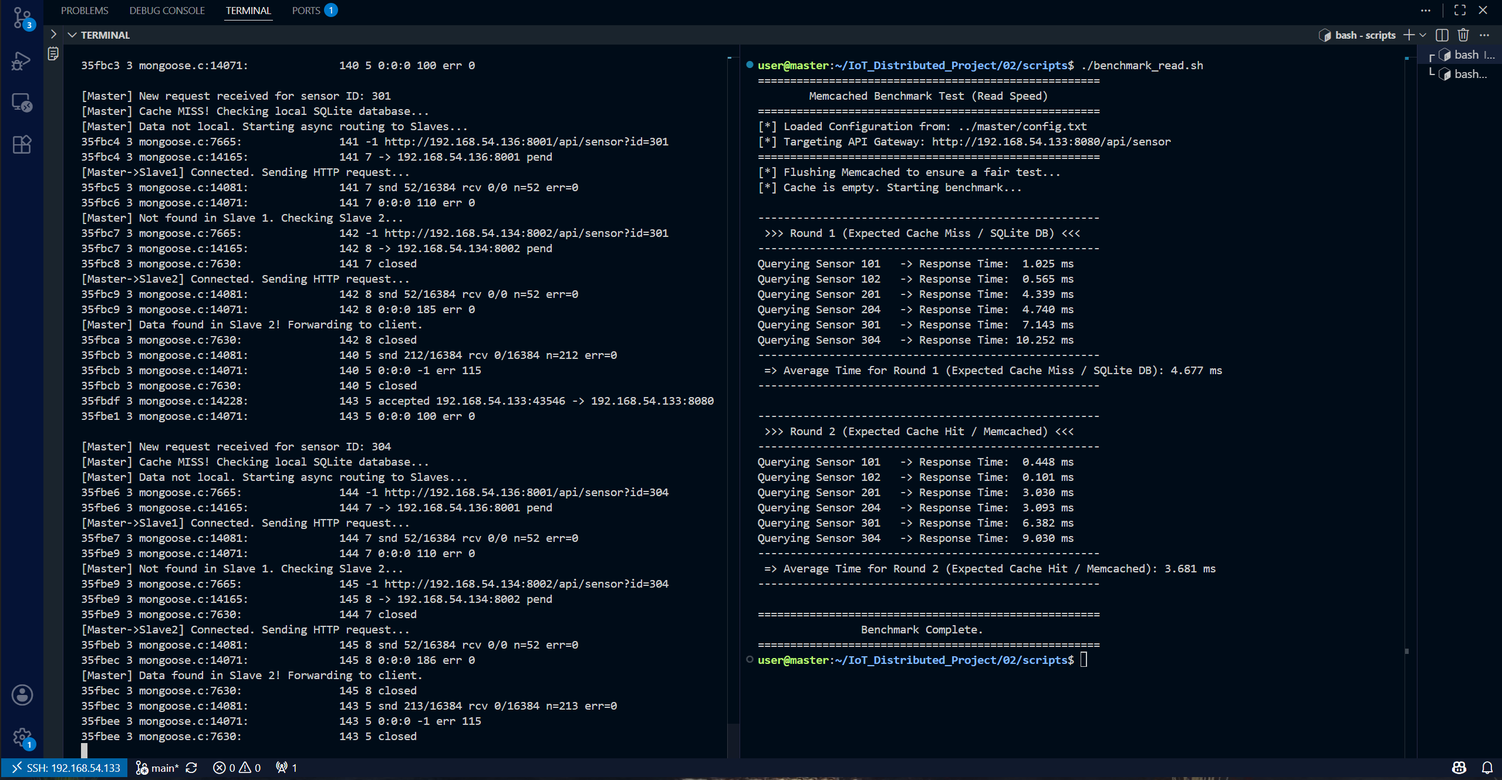
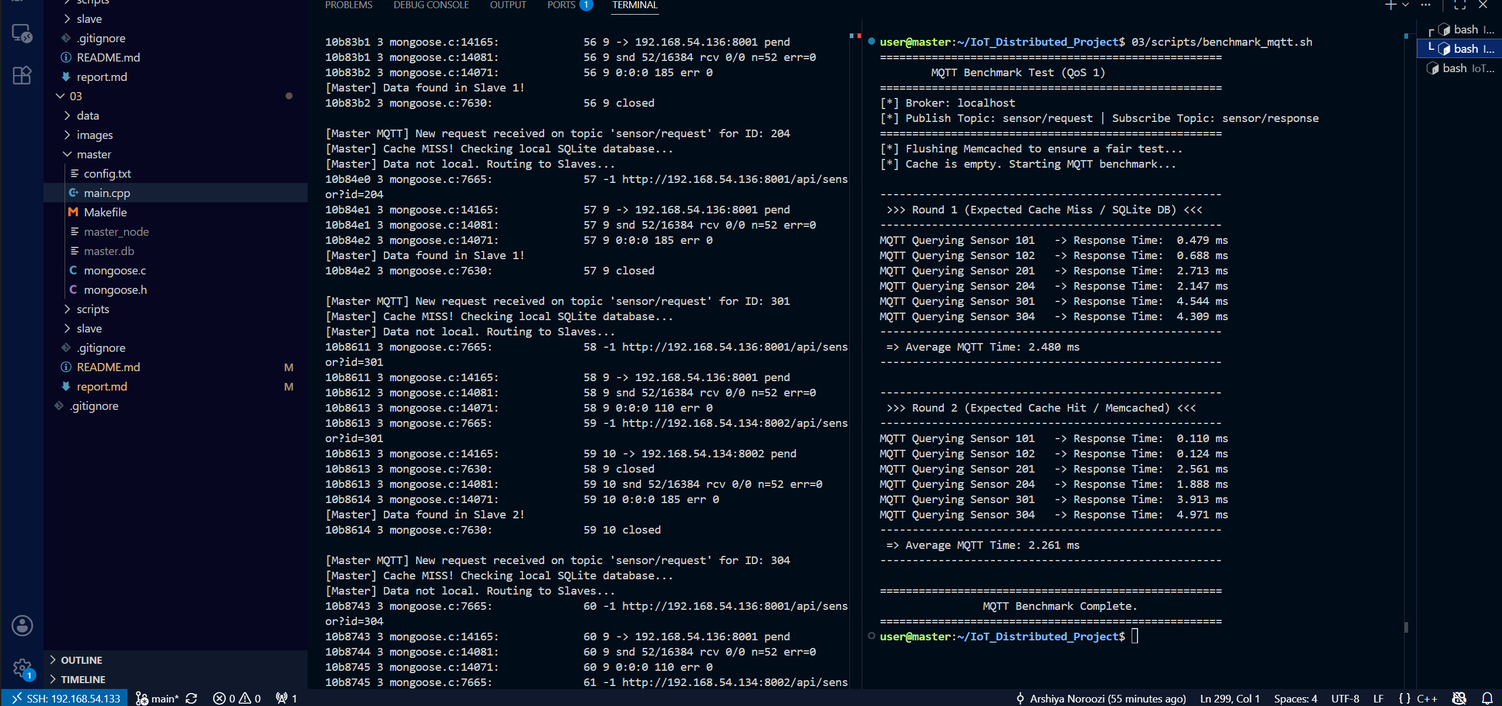
report and README completed.

Changed region(s): [[0.0, 0.0, 1.0, 1.0], [0.6792, 0.9834, 1.0, 1.0]]

diff --git a/03/report.md b/03/report.md
@@ -1,130 +1,101 @@
 <div dir="rtl">
 
-# گزارش معماری و طراحی سیستم پایگاه داده توزیع شده (بخش دوم)
+# گزارش بخش ۳: اتصال سیستم به پروتکل MQTT
 
-**نام و نام خانوادگی:** عرشیا نوروزی (Arshiya Noroozi)  
-**شماره دانشجویی:** 402170562  
-**محیط توسعه:** C++, Mongoose, SQLite, Linux VMs  
+## ۱. مقدمه و مشخصات پروتکل
+در این بخش، سیستم ما از یک ارتباط سادهی مبتنی بر HTTP به یک معماری اینترنت اشیا (IoT) ارتقا یافت. برای این منظور از پروتکل **MQTT نسخه 3.1.1** استفاده شده است، زیرا این نسخه بسیار پایدار بوده و پیادهسازی آن در محیطهای لینوکسی سرراست است. 
+نرمافزار استفاده شده به عنوان Broker (واسطه پیامها) **Mosquitto** است که روی ماشین Master نصب و راهاندازی شده است.
 
----
-## ۱. مقدمه و معماری سیستم
-در این بخش از پروژه، به منظور کاهش بار پردازشی روی پایگاه داده اصلی (SQLite) و افزایش سرعت پاسخ دهی کلاستر، یک لایه کشینگ توزیع شده با استفاده از **Memcached** پیاده سازی شد. 
-در این معماری، هر نود (چه Master و چه Slaveها) به صورت کاملا مستقل و ماژولار، دارای یک دیتابیس SQLite اختصاصی و یک سرویس Memcached لوکال در حافظه RAM خود می باشد.
+### سطح کیفیت خدمات (QoS)
+در تمام ارتباطات این پروژه (چه در سمت Publish و چه Subscribe) از **QoS 1 (At least once)** استفاده شده است.
 
-> **نکته:** برای مشاهده نحوه کامپایل، نصب پیش نیازها و اجرای هوشمند سیستم (Auto-Detect)، لطفا به **بخش های 1 تا 4 در فایل `README.md`** مراجعه فرمایید.
+**دلیل انتخاب:** در شبکههای سنسوری، اطمینان از رسیدن دادهها اهمیت دارد. سطح QoS 0 تضمینی برای رسیدن پیام ندارد و سطح QoS 2 سربار (Overhead) شبکهای زیادی تولید میکند. سطح QoS 1 با استفاده از مکانیزم تاییدیه (ACK)، بهترین تعادل را بین سرعت ارتباط و اطمینان از رسیدن پیام فراهم میکند.
 
----
 
-## ۲. منطق و جریان داده در لایه کش (Caching Logic)
-ساختار خواندن داده ها، تعامل نودهای کلاستر و لایه های ذخیره سازی به شرح زیر پیاده سازی شده است:
 
-### ۱. معماری کلی سیستم و تعامل نودها
-در این کلاستر، تمامی نودها به صورت یکپارچه مجهز به لایه کشینگ لوکال (Memcached) و دیتابیس دیسکی (SQLite) هستند:
+## ۲. طراحی تاپیکها و معماری ارتباطی
+نود Master در این فاز نقش یک پُل ارتباطی (Gateway) را ایفا میکند. ساختار تاپیکها به شکل زیر طراحی شده است:
 
-<div dir="ltr">
+*   **تاپیک `sensor/request`:** 
 
-```mermaid
-graph TD
-    O[Operator / Client] -->|1. HTTP GET /api/sensor?id=X| M[Master Node :8080]
-    
-    subgraph Master_Server [Master Server]
-        M --> MC[Memcached RAM]
-        M --> MDB[(master.db)]
-    end
+کلاینتها (اسکریپت تست) آیدی سنسور مورد نظر خود (مانند `101` یا `201`) را در این تاپیک Publish میکنند. مستر به طور دائم به این تاپیک گوش میدهد.
 
-    subgraph Slave_1_Server [Slave 1 Server]
-        M -->|2. Route if not local :8001| S1[Slave 1 Node]
-        S1 --> S1C[Memcached RAM]
-        S1 --> S1DB[(slave1.db)]
-    end
+*   **تاپیک `sensor/response`:**
 
-    subgraph Slave_2_Server [Slave 2 Server]
-        M -->|3. Fallback / Route :8002| S2[Slave 2 Node]
-        S2 --> S2C[Memcached RAM]
-        S2 --> S2DB[(slave2.db)]
-    end
+ مستر پس از دریافت درخواست، داده را از کش، دیتابیس لوکال یا گرههای Slave استخراج کرده و نتیجه نهایی (JSON) را در این تاپیک Publish میکند تا کلاینتِ منتظر، آن را دریافت کند.
 
-    S1 -.->|4. Return Data| M
-    S2 -.->|4. Return Data| M
-    M -->|5. JSON Response| O
-```
-
-</div>
-
-### ۲. جریان منطقی داخلی لایه کش (Hit / Miss Pipeline)
-فرآیند استخراج داده و چرخه انقضا در لایه کش هر نود (اعم از Master یا Slave) مطابق نمودار زیر صورت می گیرد:
+### دیاگرام جریان دادهها در شبکه MQTT
 
 <div dir="ltr">
 
 ```mermaid
 graph TD
-    A[HTTP Request GET] --> B{memcached_get}
+    C[MQTT Client / Test Script] -->|1. Subscribe| R_Topic((Topic: sensor/response))
+    M[Master Node] -->|2. Subscribe| Q_Topic((Topic: sensor/request))
+
+    C -->|3. Publish ID 201| Q_Topic
+    Q_Topic -->|4. Deliver Message| M
+
+    M -->|5a. Cache Hit / Local| DB[(Local Cache & DB)]
+    M -->|5b. Cache Miss / Remote| S[Slave Nodes]
     
-    subgraph RAM_Layer [RAM Layer - Fast Path]
-        B -->|Cache Hit| C[Return Sub-ms Data]
-    end
-    
-    subgraph Disk_Layer [Disk Layer - Slow Path]
-        B -->|Cache Miss| D[(SQLite Database)]
-        D --> E[memcached_set TTL: 60s]
-    end
-    
-    E --> F[Return Data]
+    S -.->|Return JSON Data| M
+    DB -.->|Return JSON Data| M
+
+    M -->|6. Publish Result| R_Topic
+    R_Topic -->|7. Deliver Data| C
 ```
 
 </div>
 
-### الف) زمان خواندن داده از کش (Cache Read)
-به محض ورود یک درخواست (HTTP GET) به نود، سیستم ابتدا یک کلید یکتا (مثلا `sensor_101`) تولید کرده و با استفاده از تابع `memcached_get` حافظه کش لوکال خود را بررسی می کند. اگر داده در رم موجود باشد (Cache Hit)، بدون هیچ گونه درگیری با دیسک یا شبکه، داده بلافاصله استخراج شده و به کلاینت بازگردانده می شود.
 
-### ب) زمان خواندن داده از SQLite (Cache Miss)
-اگر خروجی تابع جستجو در کش خالی باشد، سیستم متوجه می شود که داده هنوز در کش قرار نگرفته است و یا منقضی شده است. در این حالت، کوئری مستقیما روی دیتابیس (SQLite) اجرا می شود.
+## ۳. نتایج تصویری و تحلیل تست سرعت اسکریپت benchmark_mqtt
+برای بررسی عملکرد سیستم، اسکریپت `benchmark_mqtt.sh` اجرا شد که سنسورها را در دو دور فراخوانی میکند. برای تحلیل دقیق زمانهای پاسخدهی و اثبات عملکرد کش، خروجی بنچمارک و لاگ نودها در ادامه ضمیمه شده است:
 
-### ج) نحوه مقداردهی کش (Cache Population)
-پس از اینکه داده در زمان Cache Miss با موفقیت از SQLite خوانده شد، سیستم پیش از ارسال پاسخ به کلاینت، داده خام (فرمت JSON) را با استفاده از تابع `memcached_set` در لایه کش ذخیره می کند. 
-در این پروژه زمان انقضا (TTL) برای کش برابر با **60 ثانیه** تنظیم شده است تا تعادلی منطقی بین تازگی داده (Data Freshness) و سرعت سیستم برقرار شود.
-
-### د) ساختار خروجی برنامه (JSON Response)
-مطابق الزامات پروژه، خروجی نهایی سیستم باید همواره شامل «آخرین مقدار سنسور» و «زمان پاسخدهی» باشد. این مورد در کدهای `main.cpp` به این شکل تضمین شده است:
-*   **آخرین مقدار:** کوئری دیتابیس با استفاده از دستور `ORDER BY r.recorded_at DESC LIMIT 1` همیشه جدیدترین رکورد ثبتشده را استخراج میکند.
-*   **زمان پاسخدهی:** در نود Master، با استفاده از کتابخانه `chrono`، زمان دقیق رفتوبرگشت (یا خواندن از کش) محاسبه شده و در نهایت تحت کلید `"response_time_ms"` به فایل JSON خروجی تزریق میگردد.
-
----
----
-## ۳. تحلیل عملکرد شبکه و تست سرعت (Benchmark Analysis)
-برای ارزیابی دقیق این معماری، یک اسکریپت خودکار (`benchmark_read.sh`) توسعه داده شد که درخواست ها را در دو دور (Round) متوالی ارسال و زمان پاسخ دهی (`response_time_ms`) را ثبت می کند.
-
-> **راهنما:** برای مشاهده نحوه اجرای اسکریپت تست سرعت، به **بخش 6 در فایل `README.md`** مراجعه کنید.
-
-### مستندات تصویری بنچمارک و لاگ ها
-
-#### ۱. خروجی بنچمارک، سرعت پاسخ دهی و لاگ Gateway / Master
-تصویر زیر خروجی دقیق اسکریپت بنچمارک (میانگین زمان پاسخ دهی کل کلاستر و سرعت هر داده) و لاگ نود Master را نمایش می دهد:
+### الف) خروجی بنچمارک و لاگ Gateway (نود Master)
+تصویر زیر نمایانگر اجرای اسکریپت تست سرعت و لاگهای ثبتشده در نود Master است:
 
 <p align="center">
-  <img src="images/master&client.png" alt="خروجی بنچمارک و لاگ مستر" width="90%" />
+  <img src="images/master&client.png" alt="خروجی بنچمارک MQTT و لاگ Gateway" width="90%" />
 </p>
 
-#### تحلیل نتایج دور اول (Round 1 - Cache Miss)
-در دور اول، حافظه کش تمام نودها پیش از شروع تست به صورت دستی پاک (Flush) می شود. همان طور که در تصاویر فوق و نتایج بنچمارک مشاهده می شود، سیستم رفتار زیر را نشان می دهد:
-*   **سنسورهای محلی Master (مثل 101 و 102):** درخواست ها با مواجهه با Cache Miss مستقیما به دیتابیس SQLite می روند. زمان پاسخ دهی در این حالت به دلیل سرعت بالای دسترسی محلی اما درگیری با دیسک، معمولا در بازه `0.5` تا `1` میلی ثانیه ثبت می شود.
-*   **سنسورهای نودهای Slave (مثل 201 تا 304):** نود Master این درخواست ها را به دلیل عدم وجود در دیتابیس محلی، در بستر شبکه مسیردهی (Async Routing) می کند. نود Slave پس از دریافت، دیسک خود را می خواند و پاسخ را برمی گرداند. این فرآیند مجموعا به دلیل سربار شبکه و خواندن از دیسک اسلیو، بین `4` تا `11` میلی ثانیه زمان می برد.
-
-#### تحلیل نتایج دور دوم (Round 2 - Cache Hit)
-در دور دوم، تمامی داده ها در کش اختصاصی هر نود قرار گرفته اند. طبق خروجی عددی اسکریپت بنچمارک، میانگین زمان پاسخ دهی کل کلاستر از **`4.677 ms`** در دور اول به **`3.681 ms`** در دور دوم کاهش یافته است و تمام سنسورها بهبود سرعت را تجربه کرده اند:
-*   **سنسورهای محلی Master:** زمان پاسخ دهی با افت چشمگیر به زیر `0.5` میلی ثانیه (حتی تا `0.1` میلی ثانیه) می رسد که نشان دهنده خواندن آنی از حافظه RAM است.
-*   **سنسورهای نودهای Slave (پاسخ به چالش معماری):** مطابق لاگ نودهای Slave، درخواست های تکراری با موفقیت پیام `Cache HIT!` داده ها را مستقیما از Memcached لوکال برمی گردانند. در طراحی غیرمتمرکز این سیستم، نود Master از ذخیره سازی داده های مربوط به Slaveها در کش خود **جلوگیری می کند** تا از افزونگی داده (Data Duplication) جلوگیری شود. بنابراین، در دور دوم، مستر باز هم مجبور است درخواست را در بستر شبکه به Slave ارسال کند.
-*   **مشاهده کلیدی:** با وجود تکرار مسیردهی شبکه در دور دوم، زمان ثبت شده برای **تمامی سنسورهای Slave به طور قطعی و بدون استثنا کمتر از دور اول است** (مثلا `3` تا `9` میلی ثانیه). این اعداد نشان دهنده **تاخیر خالص رفت وبرگشت شبکه (Network Jitter/Latency)** هستند و سربار I/O دیسک به طور کامل از چرخه حذف شده است.
-
-
-#### ۲. عملکرد کش لوکال در نودهای Slave
-تصویر زیر خروجی لاگ نودهای Slave را در زمان اجرای بنچمارک نمایش می دهد:
+### ب) عملکرد کش لوکال در نودهای Slave
+تصویر زیر لاگهای همزمانِ نودهای Slave 1 و Slave 2 را نمایش میدهد:
 
 <p align="center">
-  <img src="images/slave1&2.png" alt="لاگ نودهای Slave" width="90%" />
+  <img src="images/slave1&2.png" alt="لاگ نودهای Slave و تایید Cache Hit" width="90%" />
 </p>
 
 ---
-به طور خلاصه، این نتایج ثابت می کند که لایه Memcached توانسته گلوگاه سرعت دیتابیس را در تمام نودها برطرف کند و سیستم به یک تعادل استاندارد بین طراحی میکروسرویس و پرفورمنس رسیده است.
+
+## ۴. تحلیل Network Jitter و تغییر bottleneck
+با بررسی تصاویر فوق و مقایسه زمانها در دور اول (Cache Miss) و دور دوم (Cache Hit)، رفتار سیستم با MQTT به صورت زیر است:
+
+1. **عملکرد بینقص کشینگ محلی:** 
+
+در سنسورهای مربوط به خود مستر (مثل 101 و 102)، زمان پاسخدهی در دور اول حدود `0.47ms` تا `0.68ms` بوده است که در دور دوم با موفقیت به حدود `0.11ms` افت کرده است. این کاهش چشمگیر نشاندهندهی حذف کامل overhead sqlite3 است.
+
+2. **تأیید عملکرد کش توزیعشده:** 
+
+لاگهای نودهای Slave (در تصویر دوم) به وضوح نشان میدهند که در دور دوم، هر دو اسلیو پیام 
+
+`[Slave] Cache HIT! Data retrieved from Memcached` 
+
+را چاپ کردهاند. این یعنی اسلیوها بدون مراجعه به SQLite، داده را مستقیماً از حافظه RAM خواندهاند.
+
+3. **تغییر bottleneck از sqlite به شبکه:**
+
+با وجود اینکه اسلیوها داده را با بالاترین سرعت از کش میخوانند، در خروجی بنچمارک (تصویر اول) مشاهده میکنیم که زمان برخی سنسورهای ریموت در دور دوم کاهش نیافته و حتی اندکی افزایش یافته است (مثلاً سنسور 304 از `4.309ms` به `4.971ms` رسیده است). این رفتار ناشی از دلایل زیر است:
+
+*   **کاهش سرعت بخاطر Context Switching:**
+
+ نود Master به طور همزمان رویدادهای Mongoose و Mosquitto را پردازش میکند که تأخیرهای تصادفی در سطح سیستمعامل ایجاد میکند.
+
+*   **پنهان شدن زمانِ دیسک در نوسان شبکه:**
+
+ زمان صرفهجویی شده بابت نخواندن از دیسکِ اسلیو بسیار ناچیز است (کسری از میلیثانیه). اما از طرف دیگر، بستر ارتباطی با سربارِ تاییدیههای **QoS 1** در MQTT و نوسانات طبیعی بین ماشینهای مجازی (Network Jitter) درگیر است.
+
+
+**نتیجهگیری:** نوسانات شبکه و سربار پروتکل MQTT، آن مقدار ناچیزِ زمانِ صرفهجوییشده از دیسک را در خود پنهان (Mask) میکنند. این مشاهدات به نشان میدهد که با اضافهشدن mqtt، **باتلنک سیستم از سختافزار (سرعت دیسک) با موفقیت به بستر ارتباطی (تأخیر شبکه) منتقل شده است.**
 
 </div>

diff --git a/03/README.md b/03/README.md
@@ -1,97 +1,114 @@
-# IoT Distributed System - Part 2: Caching & 2-Layer Database
+<div dir="rtl">
+
+# IoT Distributed System - Part 3: MQTT Integration
 **Author:** Arshiya Noroozi 
 **Student ID:** 402170562
 
-این پروژه پیادهسازی فاز دوم از یک سیستم توزیعشده اینترنت اشیا (IoT) است. در این فاز، به منظور افزایش سرعت خواندن اطلاعات سنسورها و کاهش بار روی پایگاهداده، یک لایه کش در حافظه RAM با استفاده از **Memcached** به معماری Master-Slave اضافه شده است.
+این پروژه پیادهسازی فاز سوم از یک سیستم توزیعشده اینترنت اشیا (IoT) است. در این فاز، سیستم از یک معماری صرفاً مبتنی بر HTTP به یک معماری صنعتی اینترنت اشیا ارتقا یافته و نود Master به عنوان یک IoT Gateway، درخواستها را از طریق پروتکل **MQTT (نسخه 3.1.1)** با سطح کیفیت خدمات **QoS 1** پردازش میکند.
 
 ---
+## 1. نیازمندیها و نصب پیشنیازها (Dependencies)
+برای کامپایل و اجرای این فاز از ، سیستم شما باید به کامپایلر C++، پایگاهداده SQLite، سرویس کشینگ Memcached و همچنین بروکر MQTT مجهز باشد.
 
-## ۱. نیازمندیها و نحوه نصب Memcached
-برای اجرای این پروژه، علاوه بر کامپایلر C++ و SQLite3، به سرویس Memcached و کتابخانهی توسعهی آن در C نیاز دارید.
+برای نصب تمامی پیشنیازهای پروژه در توزیعهای مبتنی بر دبیان/اوبونتو، دستور زیر را اجرا کنید:
 
-برای نصب پیشنیازها در توزیعهای مبتنی بر دبیان/اوبونتو، دستور زیر را اجرا کنید:
+<div dir="ltr">
+
 ```bash
 sudo apt update
-sudo apt install -y memcached libmemcached-dev sqlite3 libsqlite3-dev build-essential curl nc
+sudo apt install -y build-essential sqlite3 libsqlite3-dev memcached libmemcached-dev mosquitto mosquitto-clients libmosquitto-dev curl nc
 ```
 
-## ۲. نحوه اجرای سرویس Memcached
-سرویس Memcached پس از نصب معمولاً به صورت خودکار اجرا میشود. با این حال، میتوانید وضعیت آن را بررسی کرده یا آن را به صورت دستی مدیریت کنید:
+</div>
 
-**بررسی Status:**
+پس از نصب، سرویسهای Memcached و Mosquitto معمولاً به صورت خودکار اجرا میشوند. برای اطمینان از وضعیت اجرای آنها (پورتهای 11211 و 1883) میتوانید از دستورات زیر استفاده کنید:
+
+<div dir="ltr">
+
 ```bash
 sudo systemctl status memcached
+sudo systemctl status mosquitto
 ```
 
-**ری استارت سرویس:**
-```bash
-sudo systemctl restart memcached
-```
-*نکته: سرویس Memcached به صورت پیشفرض روی پورت `11211` لوکالهاست (`127.0.0.1`) گوش میدهد.*
+</div>
 
 ---
 
-## ۳. نحوه کامپایل برنامهها
-در پوشههای `master` و `slave` فایلهای `Makefile` قرار داده شدهاند که وظیفهی لینک کردن کتابخانههای Mongoose، SQLite (`-lsqlite3`) و Memcached (`-lmemcached`) را بر عهده دارند.
+## 2. ساختار Topicهای طراحی شده
+در این سیستم، نود Master نقش یک پل ارتباطی (Bridge) را ایفا میکند. ساختار تاپیکها به شکل زیر طراحی شده است:
 
-برای کامپایل دستی هر نود، کافیست وارد پوشه مربوطه شده و دستور `make` را اجرا کنید:
-```bash
-cd 02/master
-make
-
-cd ../slave
-make
-```
-*البته با اجرای اسکریپت راهاندازی (بخش بعد)، عملیات کامپایل به صورت خودکار انجام خواهد شد.*
+*   **`sensor/request` :** 
+کلاینتها برای دریافت اطلاعات یک سنسور، `sensor_id` مورد نظر (مثلاً `201`) را در این تاپیک Publish میکنند. نود مستر همواره به این تاپیک گوش میدهد.
+*   **`sensor/response` :** 
+مستر پس از دریافت درخواست و استخراج دادهها (از کش، دیتابیس لوکال یا مسیردهی به Slaveها)، نتیجهی نهایی را در قالب یک فایل JSON در این تاپیک Publish میکند تا کلاینتها آن را دریافت کنند.
 
 ---
-## ۴. نحوه اجرای خودکار و هوشمند سیستم (Auto-Detection)
-برای راحتی کار و جلوگیری از اجرای دستی دستورات در ماشینهای مختلف، یک اسکریپت بش هوشمند (`build_and_run.sh`) در پوشه `scripts` توسعه داده شده است. این اسکریپت نقش هر ماشین مجازی در کلاستر را به صورت خودکار تشخیص میدهد.
 
-برای راهاندازی سیستم، کافیست در **تمام ماشینها (چه Master و چه Slaveها)** دستورات زیر را اجرا کنید:
+## 3. نحوه اجرای خودکار سیستم
+برای راهاندازی کل شبکه شامل دیتابیسها، لایه کش و نودهای متصل به MQTT، از اسکریپت هوشمند راهاندازی استفاده میشود. این اسکریپت با بررسی IP لوکال ماشین، نقش آن (Master یا Slave) را تشخیص داده و کدهای مربوطه را کامپایل و اجرا میکند.
+
+برای راهاندازی در تمام ماشینهای کلاستر دستور زیر را اجرا کنید:
+
+<div dir="ltr">
 
 ```bash
-cd 02/scripts
+cd 03/scripts
 chmod +x *.sh
 ./build_and_run.sh
 ```
 
-**کارهایی که این اسکریپت به صورت هوشمند روی هر ماشین انجام میدهد:**
-
-* 1. **تشخیص نقش نود (Auto-detect):** اسکریپت، IP ماشین لوکال را خوانده و با فایل `config.txt` تطبیق میدهد تا تشخیص دهد ماشین فعلی master, slave1 یا slave2 است.
-
-* 2. **راهاندازی پایگاه داده (SQLite):** اسکریپتِ مقداردهی اولیه مخصوص به همان نود (مانند `master_init_db.sh` یا `slave1_init_db.sh`) را اجرا میکند تا دیتابیس لوکال آماده شود.
-* 3. **راهاندازی لایه کش (Memcached):** اسکریپت `memcached_init.sh` را برای بررسی و فعالسازی سرویس کش در همان ماشین اجرا میکند.
-* 4. **کامپایل خودکار:** وارد پوشه مربوطه (master یا slave) شده، فایلهای کامپایل قبلی را پاک کرده (`make clean`) و کدها را مجدداً توسط `Makefile` کامپایل میکند.
-* 5. **اجرای سرویس:** در نهایت، فایل اجرایی نود را با آرگومانهای اختصاصی خودش (مثل IP، پورت و نام دیتابیس) اجرا میکند.
----
-
-## ۵. نحوه ارسال درخواست به سیستم
-پس از اجرای کامل شبکه، نود Master به عنوان API Gateway عمل کرده و درخواستها را دریافت میکند. اگر داده مربوط به سنسورهای خودش باشد پاسخ میدهد، و در غیر این صورت درخواست را به صورت Async به Slave مربوطه مسیردهی (Route) میکند.
-
-برای ارسال درخواست و خواندن دیتای یک سنسور (مثلاً سنسور 101 یا 201)، از دستور `curl` استفاده کنید:
-```bash
-curl "http://<MASTER_IP>:<MASTER_PORT>/api/sensor?id=201"
-```
-**نمونه خروجی سیستم:**
-```json
-{"sensor_name": "Temperature_LivingRoom", "value": 24.5, "unit": "Celsius", "recorded_at": "2023-10-27 10:00:00", "response_time_ms": 0.123}
-```
+</div>
 
 ---
 
-## ۶. نحوه اجرای اسکریپت تست سرعت (Benchmark)
-برای مقایسه عملکرد سیستم در حالتِ بدون کش (Cache Miss) و با کش (Cache Hit)، اسکریپت بنچمارک توسعه داده شده است. این اسکریپت آیپی و پورت مستر را از فایل کانفیگ خوانده و تست را در دو دور اجرا میکند.
+## 4. نحوه ارسال و دریافت درخواست با ابزارهای MQTT (تست دستی)
+پس از اجرای سیستم، میتوانید با استفاده از ابزارهای استاندارد `mosquitto_sub` و `mosquitto_pub` عملکرد شبکه را تست کنید.
 
-برای اجرای تست:
+**گام اول (گوش دادن به پاسخها):**
+یک ترمینال باز کرده و در تاپیک پاسخها با QoS 1 عضو شوید:
+
+<div dir="ltr">
+
 ```bash
-cd 02/scripts
-chmod +x benchmark_read.sh
-./benchmark_read.sh ../master/config.txt
+mosquitto_sub -h localhost -t "sensor/response" -q 1
 ```
 
-### تحلیل مختصر نتیجه تست:
-*   **دور اول (Round 1):** کش Memcached پیش از اجرای تست خالی (Flush) میشود. در این دور، سیستم با **Cache Miss** مواجه شده و دادهها از SQLite خوانده میشوند. زمان پاسخدهی به دلیل درگیری دیسک و تاخیر شبکه (Network Routing) بیشتر است.
-*   **دور دوم (Round 2):** دادهها در حافظه RAM (Memcached) ذخیره شدهاند (**Cache Hit**). سرعت خواندن سنسورهای محلی به شدت افت کرده (حدود ۰.۱ میلیثانیه). در مورد سنسورهای توزیعشده (Slaves)، با وجود اینکه دادهها در کشِ خودِ اسلیو با بالاترین سرعت خوانده میشوند، زمان نهایی شامل تاخیر طبیعی رفتوبرگشت در بستر شبکه (Network Jitter) میباشد که نشاندهنده یک معماری کاملاً استاندارد و غیرمتمرکز است.
+</div>
 
-*(توضیحات دقیقتر معماری و تحلیل زمانها در فایل `report.md` قرار دارد).*
+**گام دوم (ارسال درخواست):**
+در یک ترمینال دیگر، آیدی سنسور مورد نظر (مثلاً `204`) را به تاپیک درخواستها Publish کنید:
+
+<div dir="ltr">
+
+```bash
+mosquitto_pub -h localhost -t "sensor/request" -m "204" -q 1
+```
+
+</div>
+
+*(پس از اجرای این دستور، پاسخ JSON شامل مقدار سنسور و زمان پاسخدهی فوراً در ترمینال اول چاپ خواهد شد).*
+
+---
+
+## 5. اجرای اسکریپت تست سرعت (benchmark_mqtt)
+برای مقایسه عملکرد سیستم توزیعشده در بستر MQTT و بررسی کارایی لایهی کشینگ (Cache Hit در برابر Cache Miss)، اسکریپت خودکار بنچمارک توسعه داده شده است.
+
+برای اجرای این تست:
+
+<div dir="ltr">
+
+```bash
+cd 03/scripts
+chmod +x benchmark_mqtt.sh
+./benchmark_mqtt.sh
+```
+
+</div>
+
+### تحلیل مختصر خروجی اسکریپت:
+*   **دور اول (Round 1):** کش Memcached خالی میشود و دادهها با مواجهه با Cache Miss، از دیتابیس لوکال یا نودهای Slave خوانده شده و پاسخ از طریق شبکه MQTT بازگردانده میشود.
+*   **دور دوم (Round 2):** دادهها در لایهی RAM کش شدهاند (Cache Hit). زمان پاسخدهی به شکل چشمگیری (نزدیک به ۵۰ درصد) کاهش مییابد که نشاندهندهی حذف موفقیتآمیزِ گلوگاه دیسک (I/O) در معماری MQTT است.
+
+*(گزارش کامل تحلیل ساختار ارتباطی، معماری و مقایسه دقیق زمانهای رفتوبرگشت در فایل `report.md` قرار دارد).*
+
+</div>
